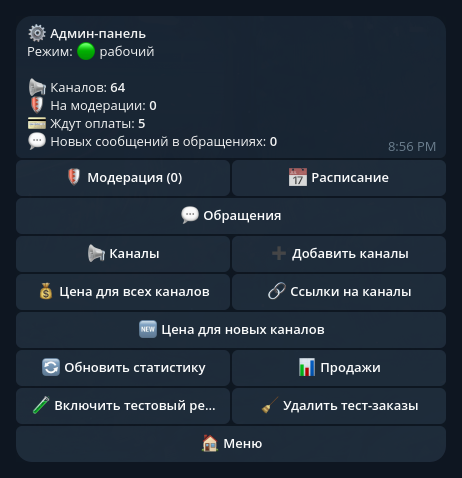
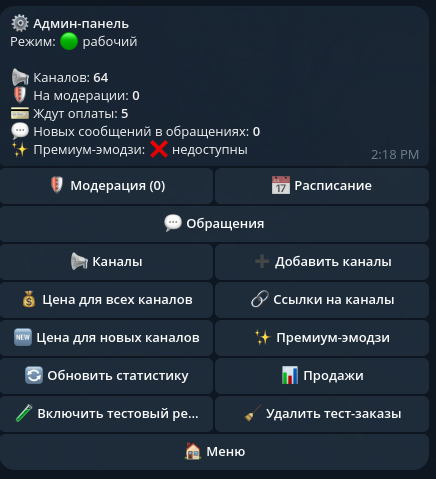
README: скриншоты админ-панели бота и настроек панели с премиум-эмодзи
Скриншот настроек снят с демо-стенда (вымышленные данные, фиктивные ключи).

Changed region(s): [[0.0, 0.0293, 0.9839, 0.9958], [0.8349, 0.2929, 0.9541, 0.3515]]

diff --git a/README.md b/README.md
@@ -36,7 +36,7 @@ Telegram-бот, который продаёт рекламу в ваших ка
   <tr>
     <td align="center" valign="top"><a href="docs/screenshots/panel-channels.png"><img src="docs/screenshots/panel-channels.png" alt="Веб-панель — Каналы" width="260"></a><br><sub>Каналы</sub></td>
     <td align="center" valign="top"><a href="docs/screenshots/panel-links.png"><img src="docs/screenshots/panel-links.png" alt="Веб-панель — Ссылки на каналы" width="260"></a><br><sub>Ссылки на каналы</sub></td>
-    <td align="center" valign="top"><a href="docs/screenshots/panel-settings.png"><img src="docs/screenshots/panel-settings.png" alt="Веб-панель — Настройки: цены, ключи оплаты, параметры бота" width="260"></a><br><sub>Настройки: цены, ключи оплаты, параметры бота</sub></td>
+    <td align="center" valign="top"><a href="docs/screenshots/panel-settings.png"><img src="docs/screenshots/panel-settings.png" alt="Веб-панель — Настройки: цены, премиум-эмодзи, ключи оплаты, параметры бота" width="260"></a><br><sub>Настройки: цены, премиум-эмодзи, ключи оплаты, параметры бота</sub></td>
   </tr>
 </table>
 
